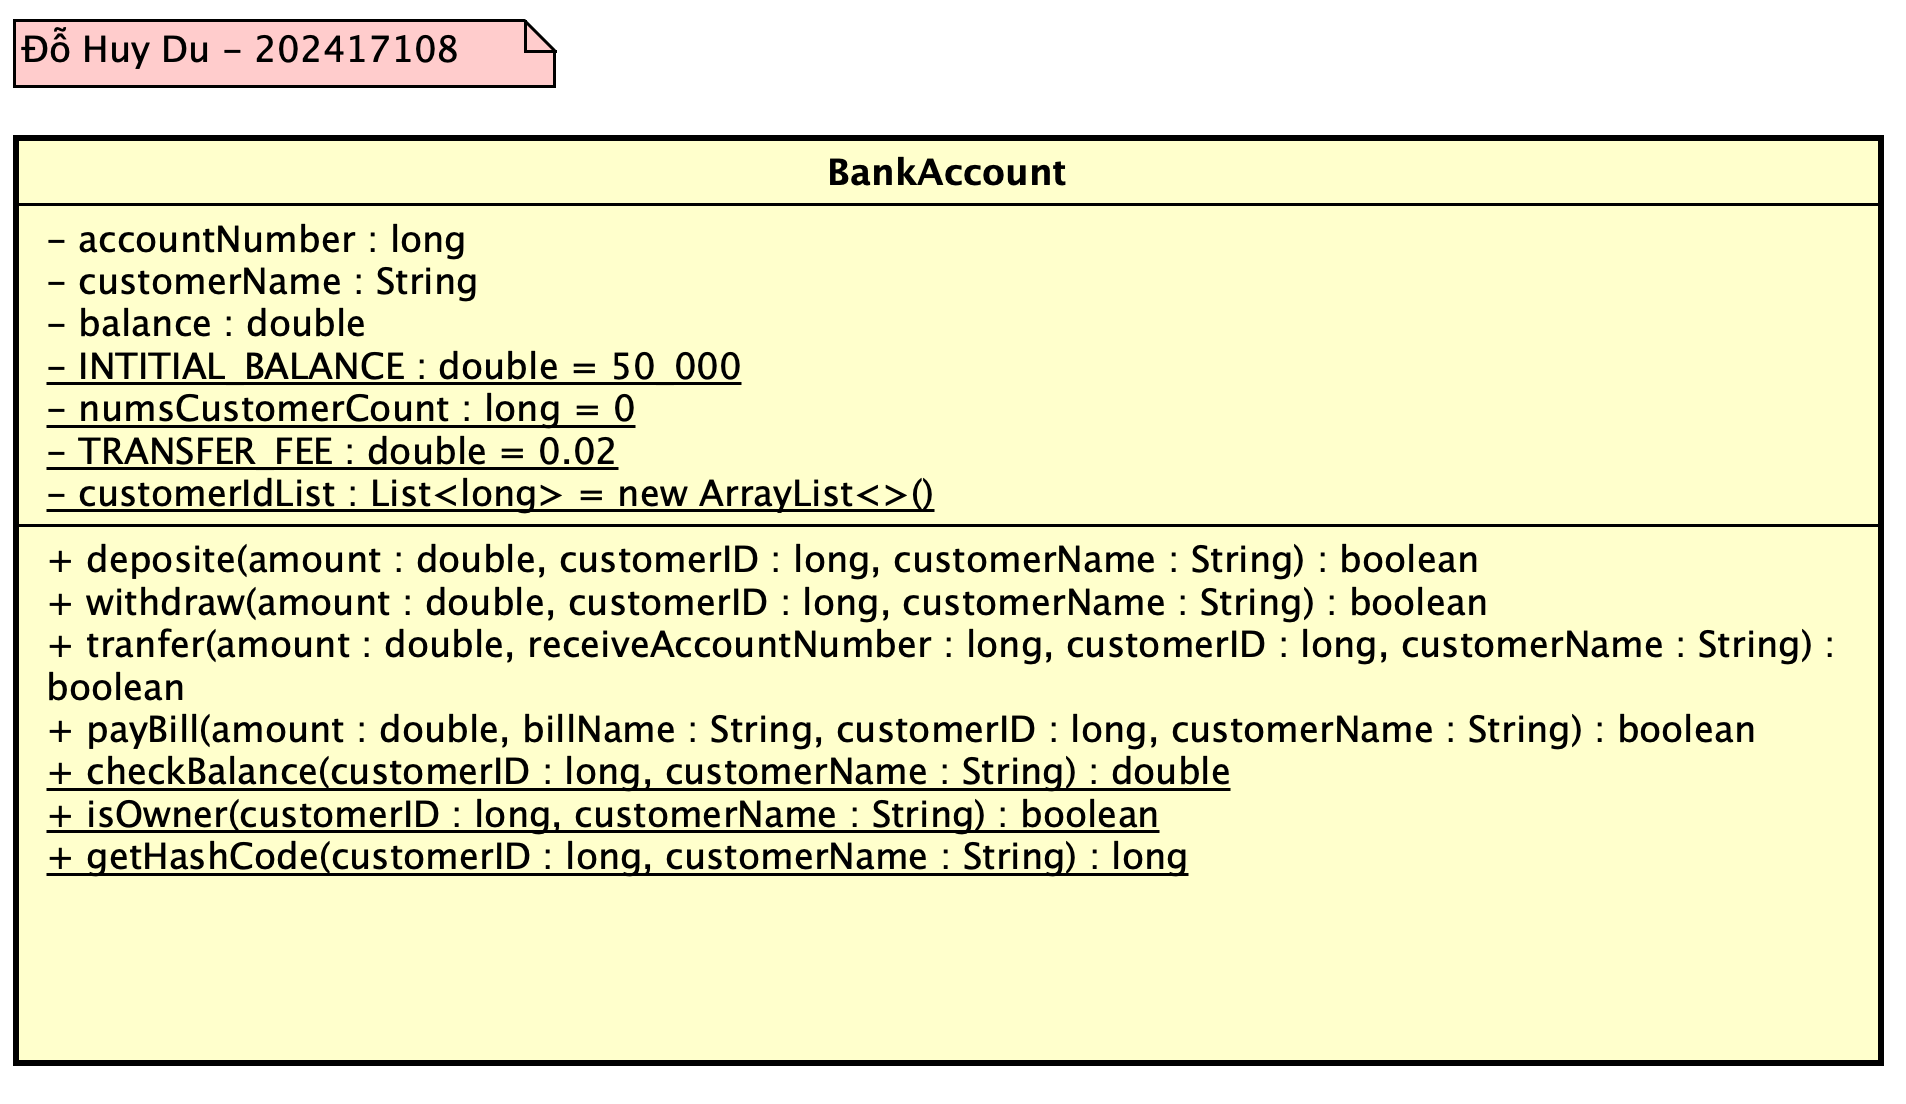
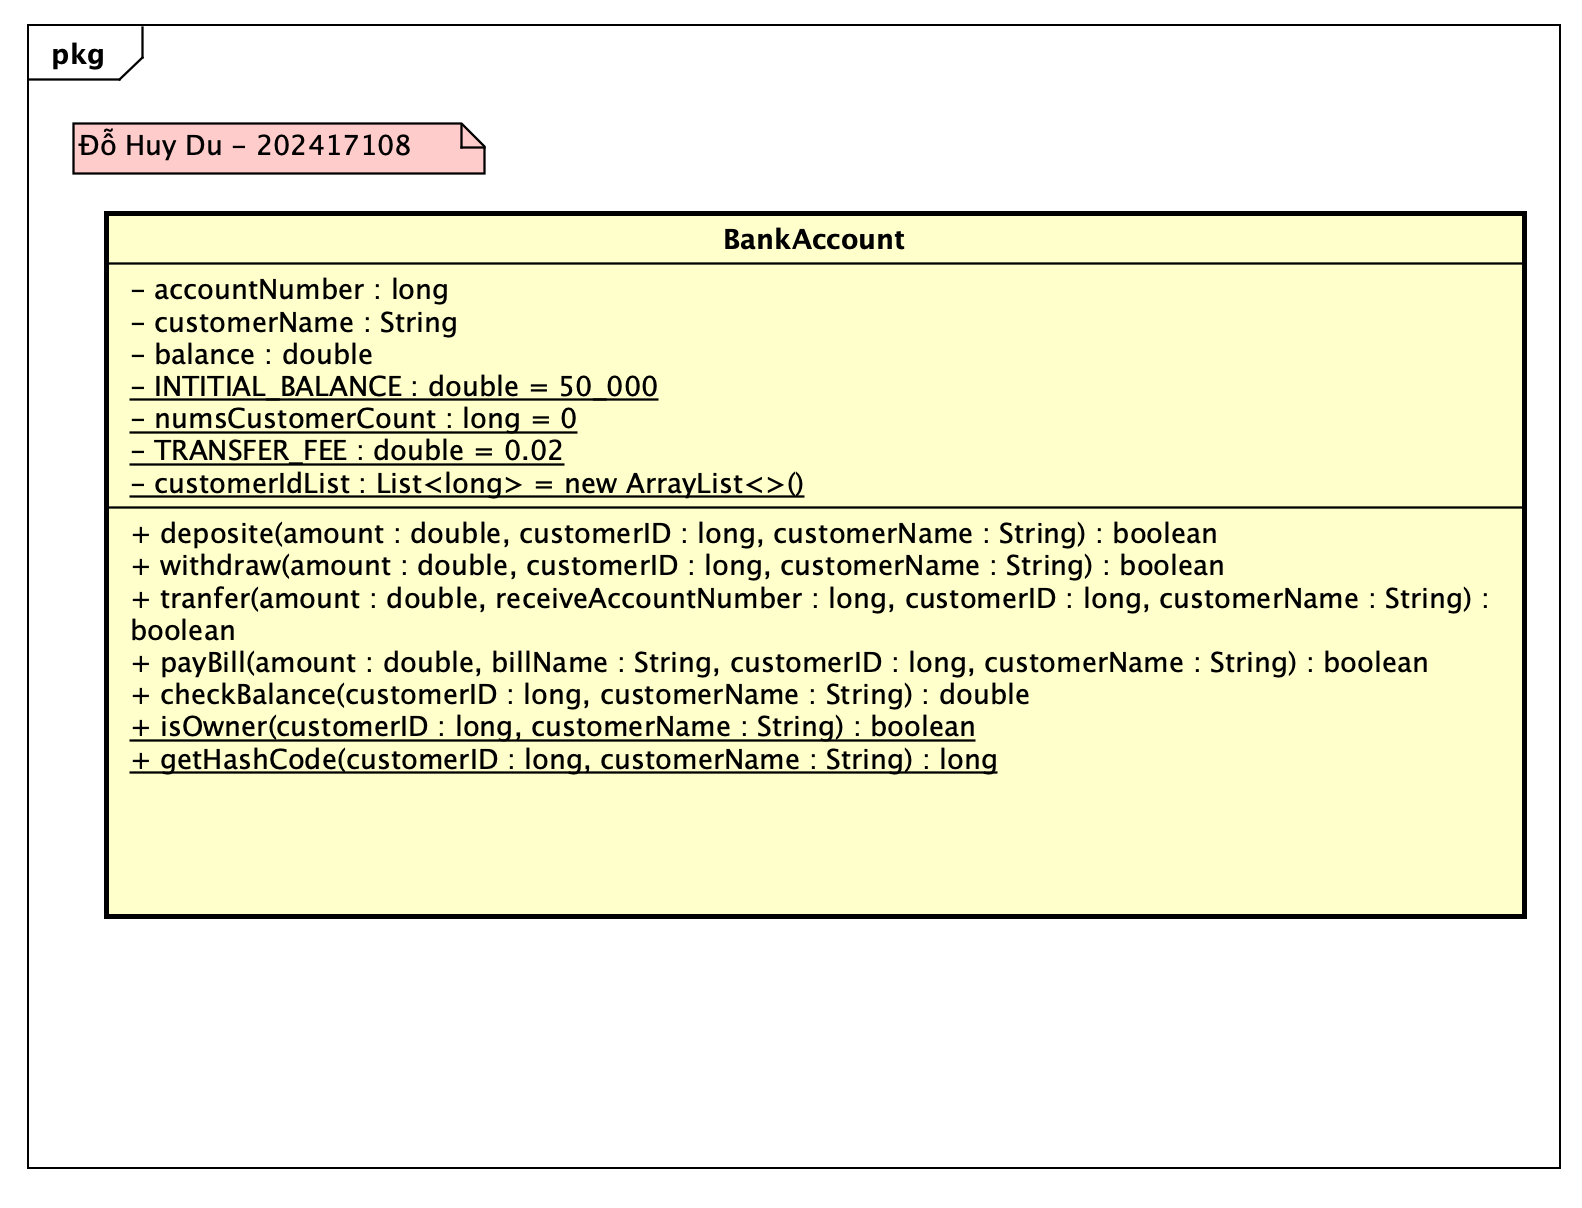
feat, fix: Add Constructors and Getters. Change the property of method checkBalance to non-static one in design and source code

diff --git a/Homework04/src/BankAccount.java b/Homework04/src/BankAccount.java
@@ -11,8 +11,24 @@ public class BankAccount {
     private static final double TRANSFER_FEE = 0.02;
     private static final List<Long> customerIdList = new ArrayList<>();
 
+    public BankAccount() {
+        this.balance = BankAccount.INITIAL_BALANCE;
+        Scanner sc = new Scanner(System.in);
+        System.out.print("Enter your full name : ");
+        this.customerName = sc.nextLine();
+        this.accountNumber = BankAccount.numsCustomerCount++;
+        BankAccount.customerIdList.add(getHashCode(this.accountNumber, this.customerName));
+        System.out.println("Done!");
+    }
+
+    public BankAccount(String customerName) {
+        this.balance = BankAccount.INITIAL_BALANCE;
+        this.accountNumber = BankAccount.numsCustomerCount++;
+        BankAccount.customerIdList.add(getHashCode(this.accountNumber, this.customerName));
+        System.out.println("Done!");
+    }
     public boolean deposite(double amount, long customerID, String customerName) {
-        return true; // prototype 
+        return true; // prototype
     }
 
     public boolean withdraw(double amount, long customerID, String customerName) {
@@ -27,15 +43,34 @@ public class BankAccount {
         return true;
     }
 
-    public static double checkBalance(long customerID, String customerName) {
-        return 1.0; // prototype
+    public double checkBalance(long customerID, String customerName) {
+        if (!isOwner(customerID, customerName)) {
+            return false;
+        }
+
+        return this.balance;
     }
 
     public static boolean isOwner(long customerID, String customerName) {
+        if (customerID >= BankAccount.numsCustomerCount) {
+            return false;
+        }
+        else if (BankAccount.get(customerID) != getHashCode(customerID, customerName)) {
+            return false;
+        }
+
         return true;
     }
 
     public static long getHashCode(long customerID, String customerName) {
+        final long p = 53, m = (long)Math.pow(10, 9) + 9;
+        long hashValue = 0, p_pow = 1;
 
+        for (char c : customerName.toCharArray()) {
+            hashValue = (hashValue + c * p_pow) % m;
+            p_pow = (p_pow * p) % m;
+        }
+
+        return ((hashValue % m) * p * (customerID % m)) % m;
     }
 }
